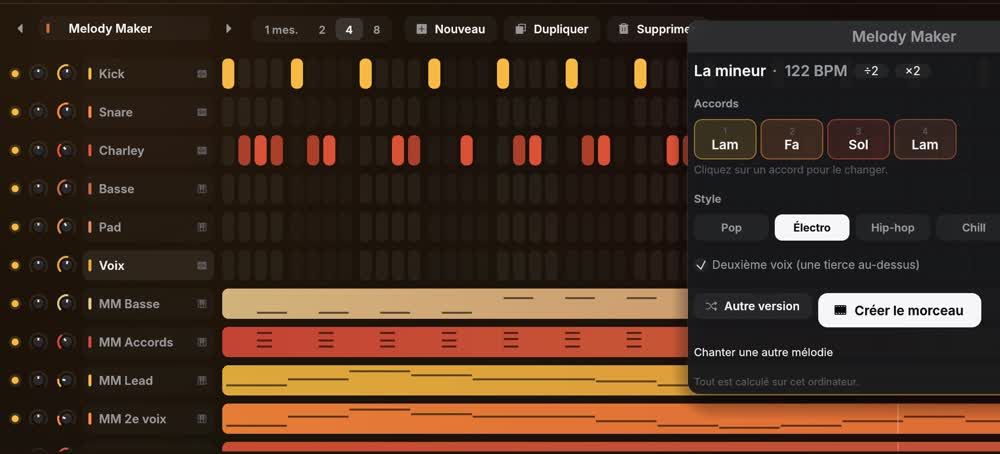
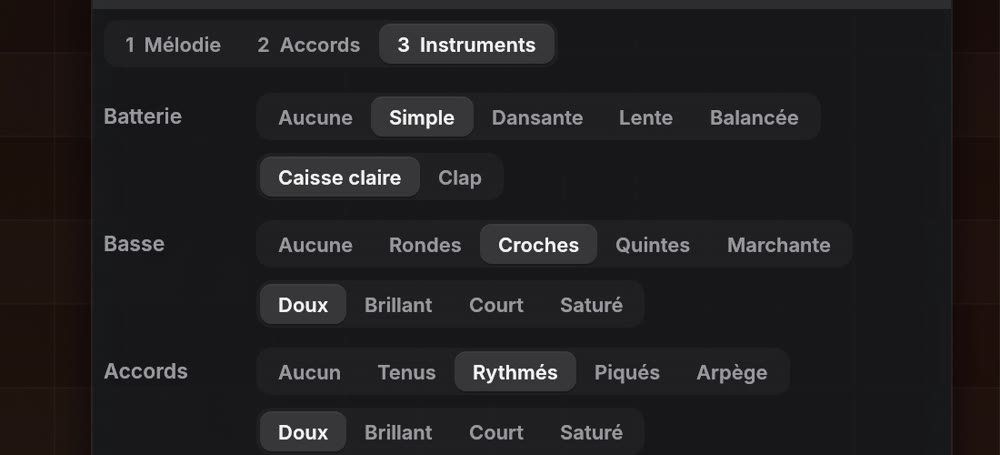
Carte Melody Maker : atelier pas à pas (0.8)
Claude-Session: https://claude.ai/code/session_016jbVsBJyMfqt4TNjKrJbUt

diff --git a/i18n.js b/i18n.js
@@ -32,7 +32,7 @@
     f8t: "All<br>your plugins.", f8p: "Your favorite VST3 and CLAP instruments and effects, plus free plugins to install in one click.",
     f9t: "Inspiration,<br>on demand.", f9p: "Drums, bass, chords or a melody, generated in your key.",
     f10t: "Sing it,<br>it's written.", f10p: "Melody turns a recording into MIDI notes.",
-    f12t: "Melody<br>Maker.", f12p: "Sing a melody: Melody finds the tempo, key and chords, then writes the song in the style you choose.",
+    f12t: "Melody<br>Maker.", f12p: "Sing a melody, fix its notes, then pick every chord and every instrument yourself.",
     f13t: "Your takes<br>in the song.", f13p: "Drop your recordings in the Playlist, cut them, add fades.",
     f11t: "Mac, Windows<br>and Linux.", f11p: "The same studio, on your computer.",
     cta: 'Available now in <span class="grad">beta</span>.',

diff --git a/index.html b/index.html
@@ -69,7 +69,7 @@
   </section>
 
   <section class="features">
-    <article><div><h2 data-i18n="f12t">Melody<br>Maker.</h2><p data-i18n="f12p">Chantez une mélodie : Melody trouve le tempo, la tonalité et les accords, puis écrit le morceau dans le style de votre choix.</p></div>
+    <article><div><h2 data-i18n="f12t">Melody<br>Maker.</h2><p data-i18n="f12p">Chantez une mélodie, corrigez ses notes, puis choisissez vous-même chaque accord et chaque instrument.</p></div>
       <figure class="glass"><img src="media/melody-maker.jpg" alt="Melody Maker" loading="lazy"></figure></article>
     <article><div><h2 data-i18n="f1t">Pensé<br>pour le live.</h2><p data-i18n="f1p">Lancez vos clips, enchaînez les scènes, improvisez.</p></div>
       <figure class="glass"><img src="media/session.jpg" alt="Vue Session" loading="lazy"></figure></article>
